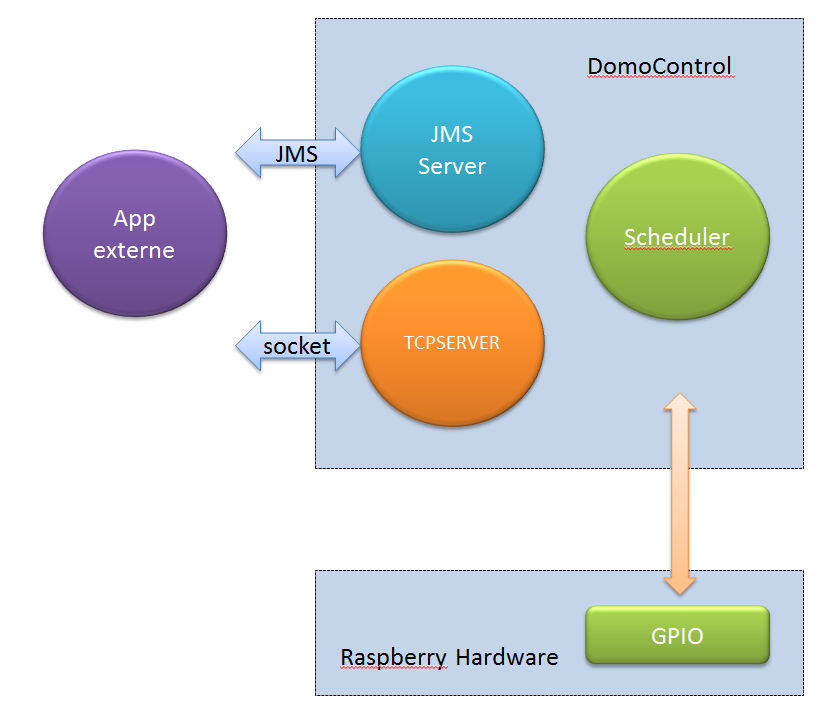
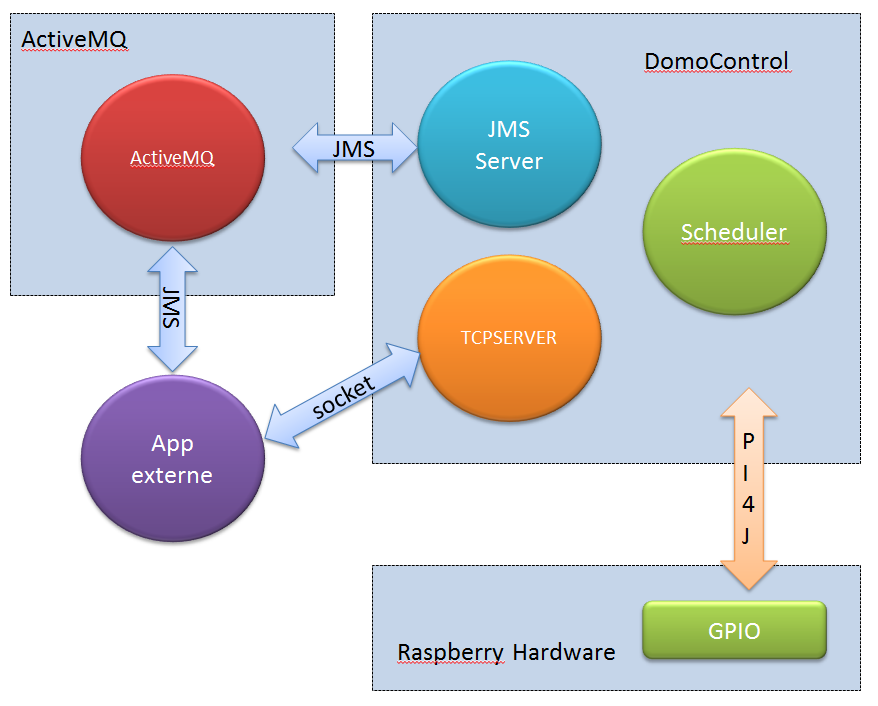
maj

diff --git a/README.md b/README.md
@@ -43,6 +43,8 @@ Install ActiveMQ server
 
 ### Architecture
 
+![Schéma d'architecture](https://raw.githubusercontent.com/fabouya/DomoControl/tree/sans-classpath/docs/img/archi1.png)
+
 ### Hierarchie des classes
 
 ## Tests
